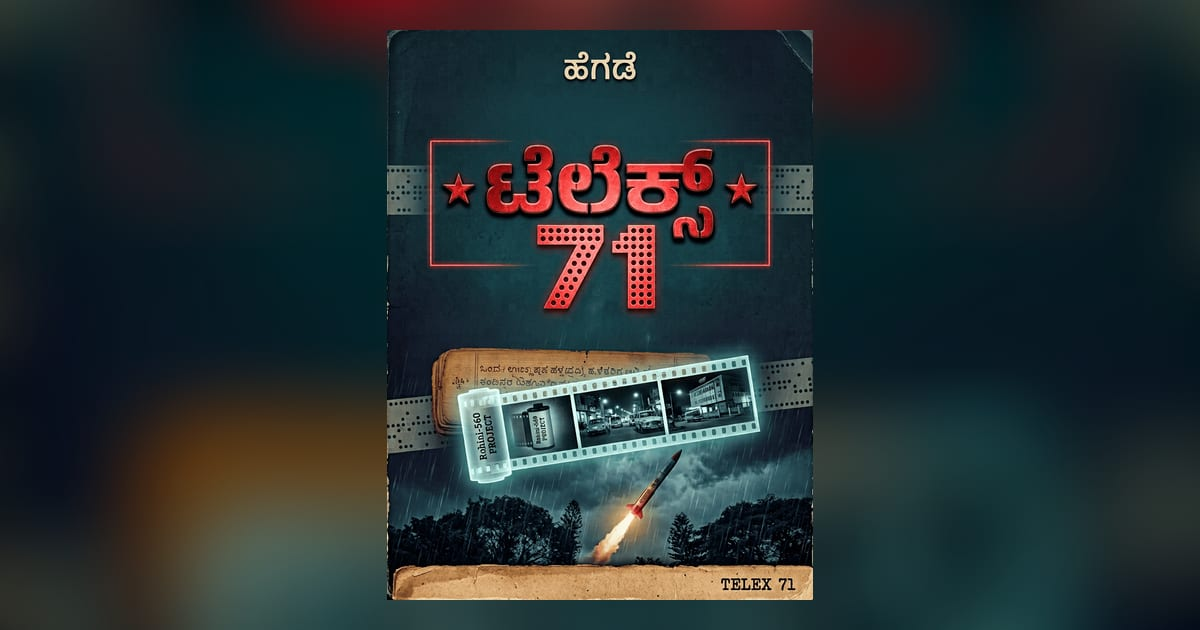
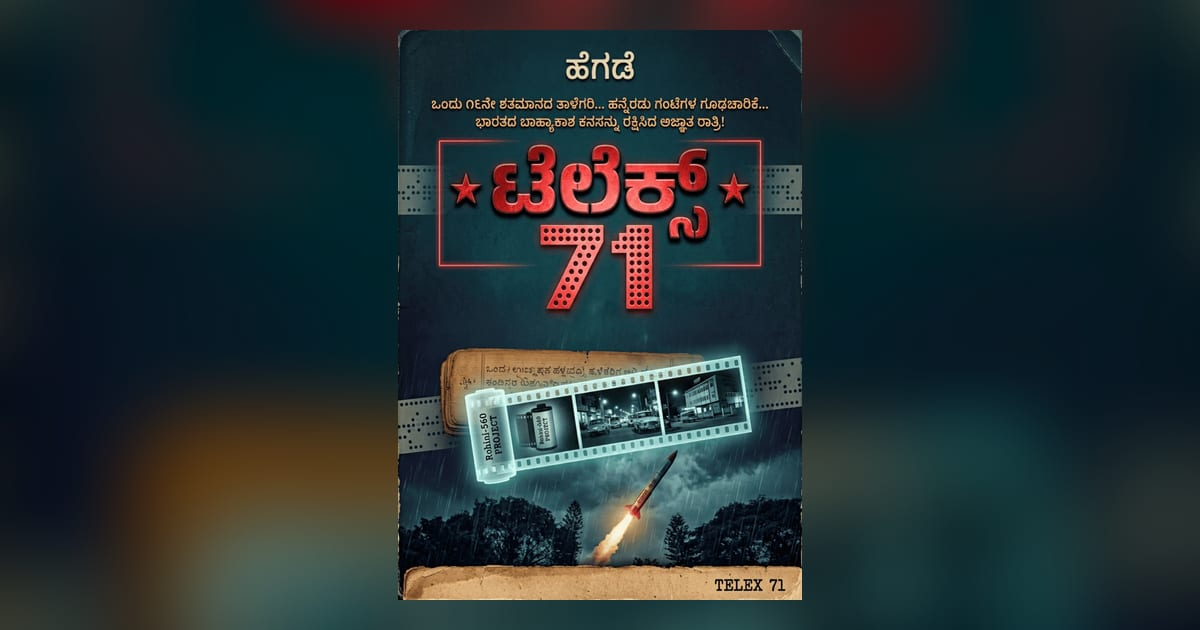
Use the taglined cover for ಟೆಲೆಕ್ಸ್ ೭೧.
The docx opens with a cover lacking the tagline; the supplied cover.png
(the same art as the docx's back page) carries it.

diff --git a/scripts/import-docx-story.py b/scripts/import-docx-story.py
@@ -166,7 +166,8 @@ STORY_CONFIG: dict[str, dict] = {
         "featured": True,
         "image_map": {f"image{n}.png": f"image{n}.png" for n in range(1, 11)},
         # image11.jpeg is a colour copy of the closing art (the B&W version
-        # ships separately); image12.png repeats the cover as a back page.
+        # ships separately); image12.png is the taglined cover, published as
+        # image1.png from the standalone cover.png instead of the plain image1.
         "skip_images": {"image11.jpeg", "image12.png"},
         "divider_images": set(),
     },
